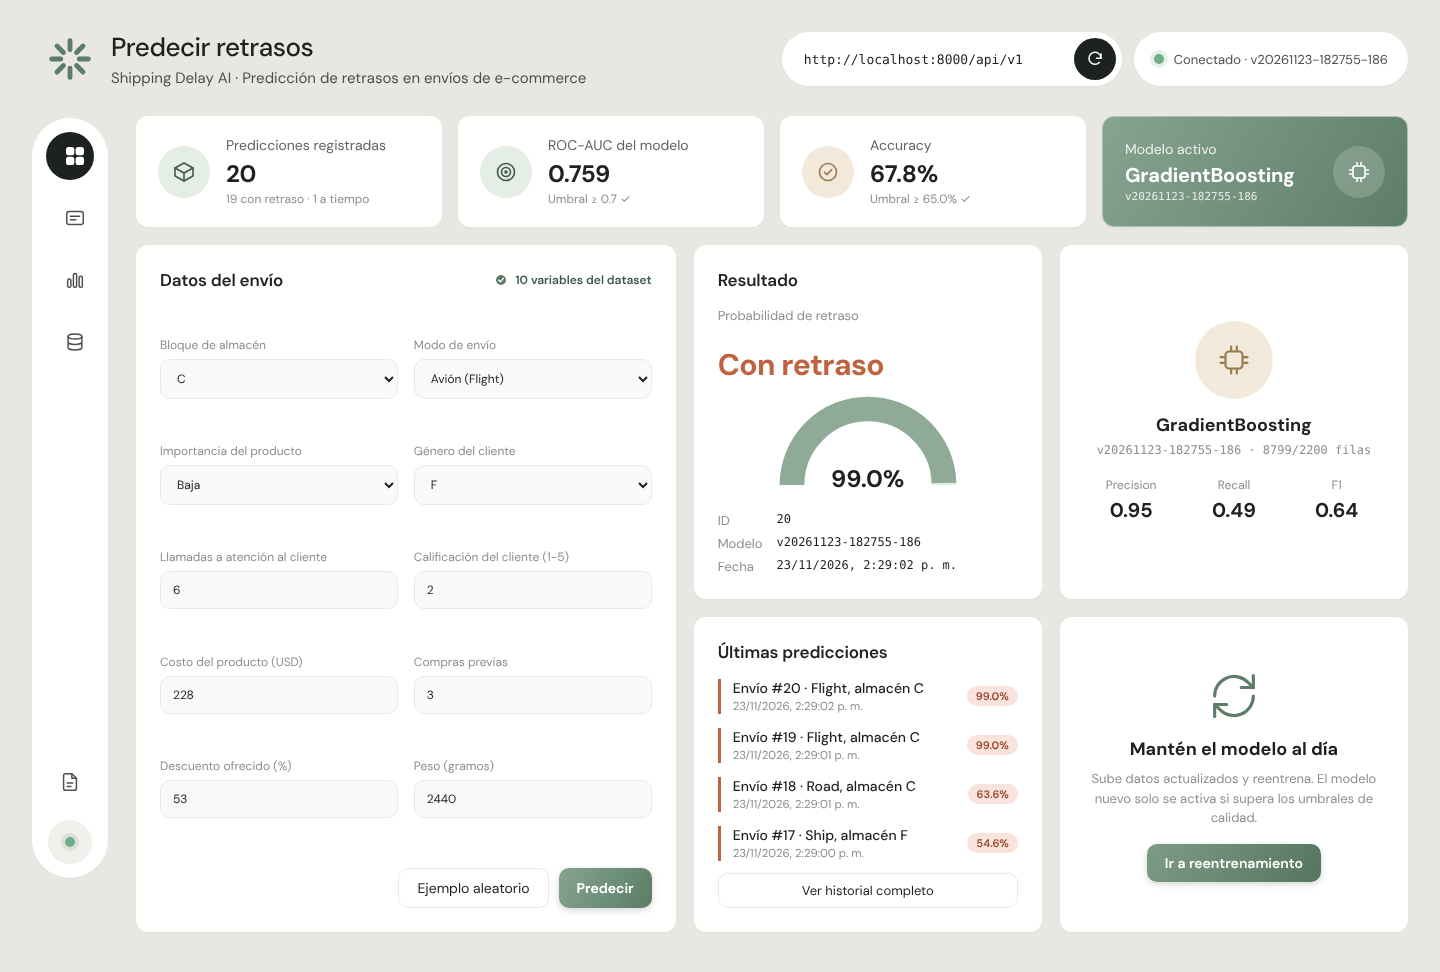
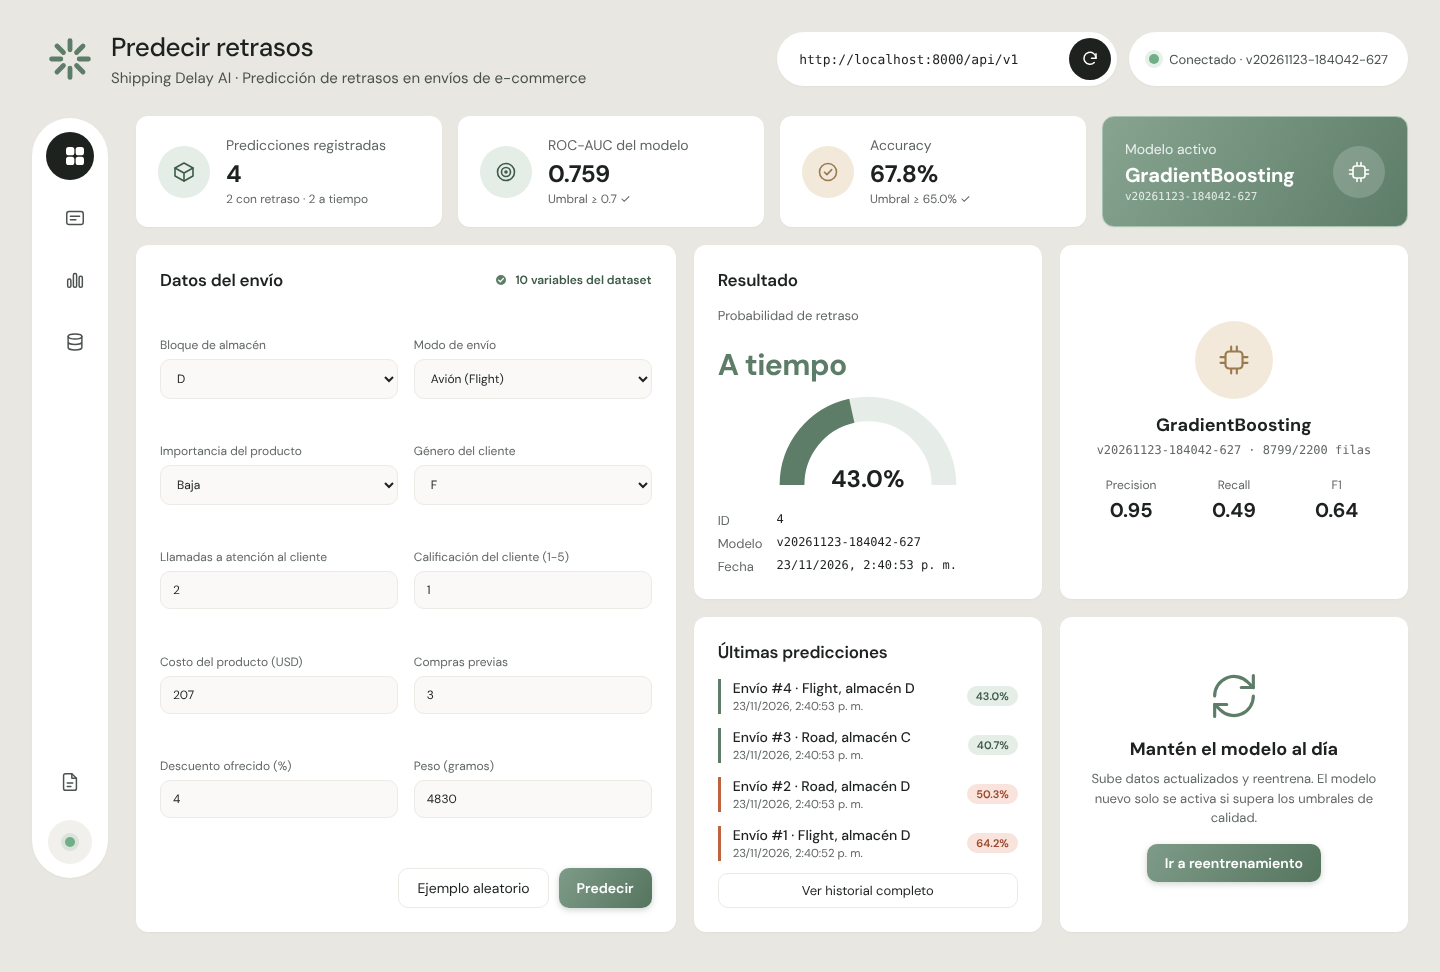
fix(ui): aplicar sugerencias de CodeRabbit del PR #3
- Resumen: si /metrics o /predictions fallan se muestran como "No disponible"
  (no quedan datos de otra API) y se avisa con un mensaje
- Pestañas con contrato ARIA completo: role tab/tabpanel, aria-controls,
  aria-labelledby, tabindex itinerante y navegación con flechas, Inicio y Fin
- Texto secundario más oscuro (#626864): contraste 5,7:1 sobre blanco
- Barra móvil compacta: sin desbordamiento horizontal a 375 px y 320 px

Claude-Session: https://claude.ai/code/session_01WiA6HKDh5mPVCdvfBkjE7G

diff --git a/frontend/index.html b/frontend/index.html
@@ -29,11 +29,11 @@
   <div class="shell">
     <!-- ============ BARRA LATERAL ============ -->
     <aside class="sidebar">
-      <nav class="side-nav" role="tablist" aria-label="Secciones">
-        <button class="tab active" data-tab="predict" title="Predecir" aria-label="Predecir"><svg><use href="#i-predict"/></svg></button>
-        <button class="tab" data-tab="history" title="Historial" aria-label="Historial"><svg><use href="#i-history"/></svg></button>
-        <button class="tab" data-tab="metrics" title="Métricas del modelo" aria-label="Métricas del modelo"><svg><use href="#i-metrics"/></svg></button>
-        <button class="tab" data-tab="data" title="Datos y reentrenamiento" aria-label="Datos y reentrenamiento"><svg><use href="#i-data"/></svg></button>
+      <nav class="side-nav" role="tablist" aria-label="Secciones" aria-orientation="vertical">
+        <button class="tab active" data-tab="predict" role="tab" id="tabbtn-predict" aria-controls="tab-predict" aria-selected="true" tabindex="0" title="Predecir" aria-label="Predecir"><svg><use href="#i-predict"/></svg></button>
+        <button class="tab" data-tab="history" role="tab" id="tabbtn-history" aria-controls="tab-history" aria-selected="false" tabindex="-1" title="Historial" aria-label="Historial"><svg><use href="#i-history"/></svg></button>
+        <button class="tab" data-tab="metrics" role="tab" id="tabbtn-metrics" aria-controls="tab-metrics" aria-selected="false" tabindex="-1" title="Métricas del modelo" aria-label="Métricas del modelo"><svg><use href="#i-metrics"/></svg></button>
+        <button class="tab" data-tab="data" role="tab" id="tabbtn-data" aria-controls="tab-data" aria-selected="false" tabindex="-1" title="Datos y reentrenamiento" aria-label="Datos y reentrenamiento"><svg><use href="#i-data"/></svg></button>
       </nav>
       <div class="side-bottom">
         <a class="side-link" id="docsLink" href="/docs" target="_blank" rel="noopener" title="Documentación Swagger" aria-label="Documentación Swagger"><svg><use href="#i-doc"/></svg></a>
@@ -87,7 +87,7 @@
 
       <main>
         <!-- ============ PREDECIR ============ -->
-        <section id="tab-predict" class="panel active">
+        <section id="tab-predict" class="panel active" role="tabpanel" aria-labelledby="tabbtn-predict" tabindex="0">
           <div class="dash-grid">
             <form id="predictForm" class="card form-card">
               <div class="card-head">
@@ -180,7 +180,7 @@
         </section>
 
         <!-- ============ HISTORIAL ============ -->
-        <section id="tab-history" class="panel">
+        <section id="tab-history" class="panel" role="tabpanel" aria-labelledby="tabbtn-history" tabindex="0">
           <div class="card">
             <div class="card-head">
               <h2>Historial de predicciones</h2>
@@ -221,7 +221,7 @@
         </section>
 
         <!-- ============ MÉTRICAS ============ -->
-        <section id="tab-metrics" class="panel">
+        <section id="tab-metrics" class="panel" role="tabpanel" aria-labelledby="tabbtn-metrics" tabindex="0">
           <div id="kpis" class="kpis"></div>
           <div class="grid-2">
             <div class="card"><h2>Matriz de confusión (conjunto de prueba)</h2><div id="cmatrix"></div></div>
@@ -232,7 +232,7 @@
         </section>
 
         <!-- ============ DATOS / REENTRENAMIENTO ============ -->
-        <section id="tab-data" class="panel">
+        <section id="tab-data" class="panel" role="tabpanel" aria-labelledby="tabbtn-data" tabindex="0">
           <div class="grid-2">
             <div class="card">
               <h2>1 · Subir archivo de entrenamiento</h2>

diff --git a/frontend/app.js b/frontend/app.js
@@ -52,7 +52,8 @@ function goTo(tab) {
   document.querySelectorAll(".tab").forEach((b) => {
     const on = b.dataset.tab === tab;
     b.classList.toggle("active", on);
-    b.setAttribute("aria-selected", on);
+    b.setAttribute("aria-selected", String(on));
+    b.tabIndex = on ? 0 : -1;                 // tabindex itinerante: solo la pestaña activa entra en el orden de foco
   });
   document.querySelectorAll(".panel").forEach((p) => p.classList.toggle("active", p.id === `tab-${tab}`));
   [$("#pageTitle").textContent, $("#pageSubtitle").textContent] = titles[tab];
@@ -60,6 +61,18 @@ function goTo(tab) {
   loaders[tab]?.();
 }
 document.querySelectorAll(".tab").forEach((btn) => btn.addEventListener("click", () => goTo(btn.dataset.tab)));
+// Navegación por teclado del patrón de pestañas (flechas, Inicio, Fin)
+$(".side-nav").addEventListener("keydown", (e) => {
+  const tabs = [...document.querySelectorAll(".tab")];
+  const i = tabs.indexOf(document.activeElement);
+  if (i < 0) return;
+  const next = { ArrowDown: i + 1, ArrowRight: i + 1, ArrowUp: i - 1, ArrowLeft: i - 1, Home: 0, End: tabs.length - 1 }[e.key];
+  if (next === undefined) return;
+  e.preventDefault();
+  const t = tabs[(next + tabs.length) % tabs.length];
+  goTo(t.dataset.tab);
+  t.focus();
+});
 document.querySelectorAll("[data-goto]").forEach((btn) => btn.addEventListener("click", () => goTo(btn.dataset.goto)));
 
 // ---------------------------------------------------------------- resumen  (GET /metrics, GET /predictions)
@@ -70,6 +83,23 @@ async function loadOverview() {
     api("/metrics"), api("/predictions?limit=4"), api("/predictions?limit=1&predicted_class=1"),
   ]);
   if (seq !== overviewSeq) return;
+  const failed = [];
+  if (m.status === "rejected") {
+    // No mostrar métricas de otra API o de una carga anterior
+    ["#kAuc", "#kAcc", "#kModel", "#mAlgo", "#mPrec", "#mRec", "#mF1"].forEach((id) => ($(id).textContent = "—"));
+    ["#kAucSub", "#kAccSub", "#kModelSub"].forEach((id) => ($(id).textContent = "No disponible"));
+    $("#mVersion").textContent = "Métricas no disponibles";
+    failed.push("métricas");
+  }
+  if (all.status === "rejected") {
+    $("#kTotal").textContent = "—";
+    $("#kTotalSub").textContent = "No disponible";
+    $("#recentList").innerHTML = `<li class="muted">No se pudieron cargar las predicciones.</li>`;
+    failed.push("predicciones");
+  } else if (late.status === "rejected") {
+    $("#kTotalSub").textContent = "Desglose no disponible";
+  }
+  if (failed.length) toast(`No se pudieron cargar: ${failed.join(" y ")}`, true);
   if (m.status === "fulfilled") {
     const v = m.value, th = v.quality_thresholds;
     $("#kAuc").textContent = v.roc_auc.toFixed(3);

diff --git a/frontend/styles.css b/frontend/styles.css
@@ -1,6 +1,6 @@
 /* Shipping Delay AI – estilo: tarjetas blancas sobre fondo cálido, acentos verde salvia */
 :root {
-  --bg: #e9e7e2; --card: #ffffff; --ink: #1d221f; --muted: #8b908c; --line: #eceae5;
+  --bg: #e9e7e2; --card: #ffffff; --ink: #1d221f; --muted: #626864; --line: #eceae5;
   --green: #5d7d68; --green-dark: #3e5a48; --green-soft: #e4ede6; --green-tint: #f1f6f2;
   --beige: #f2e9da; --beige-ink: #9a7b4f;
   --late: #c0623f; --late-soft: #f8e3dd; --ok: #4f7a5f; --bad: #b9473a;
@@ -240,3 +240,13 @@ input[type=file] { padding: 6px; }
 input[type=file]::file-selector-button { font: inherit; border: 0; border-radius: 8px; padding: 7px 14px; margin-right: 10px;
   background: var(--green-soft); color: var(--green-dark); font-weight: 600; cursor: pointer; }
 @media (max-width: 860px) { .sidebar { margin-top: 0; } }
+
+/* foco visible del panel y barra móvil en pantallas estrechas */
+.panel:focus-visible { outline: 2px solid var(--green-soft); outline-offset: 4px; border-radius: 12px; }
+@media (max-width: 420px) {
+  .sidebar { padding: 6px 8px; gap: 4px; }
+  .side-nav, .side-bottom { gap: 4px; }
+  .tab, .side-link { width: 40px; height: 40px; }
+  .tab svg, .side-link svg { width: 20px; height: 20px; }
+  .side-status { width: 36px; height: 36px; }
+}
